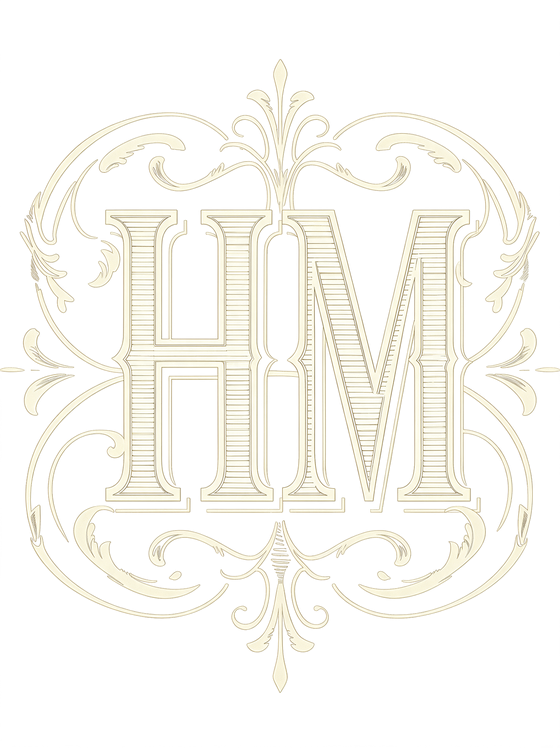
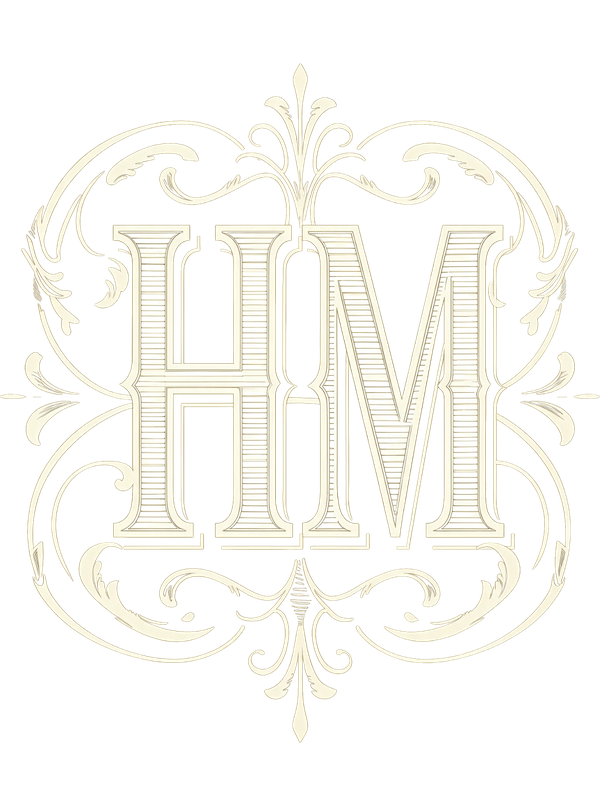
Fix monogram transparency, mobile card-deck jank, afterparty option, sun glow (#31)
* Update JA/MY hero intro copy and fix duplicated eternity motto

- Removed the eternity motto ("Two hearts, one eternity" / heroMotto) that
  had reappeared in the hero section during an earlier merge conflict
  resolution — it belongs only in the heart scene per prior direction
- Updated the Burmese heroMotto, announce, and announceBody text with the
  couple's new wording (announceBody now has two paragraphs via a line
  break)
- Updated the Japanese heroMotto, announce, and announceBody text with
  the couple's new wording

* Fix monogram transparency for good, smooth card-deck flick on mobile,
add afterparty "decide later", and replace flat sky with moving sun glow

- Replaced monogram.png with the couple's original high-resolution source
  (extracted from their upload), which has clean native alpha transparency.
  Resized it using a premultiplied-alpha-aware pipeline this time, avoiding
  the RGB corruption that caused the black box after a naive RGBA resize
- Fixed real mobile jank in the cards scene: a fast swipe triggered our own
  scrollTo({behavior:"smooth"}) snap-to-nearest-card while the browser's
  native momentum scroll was still animating, and the two fought each
  other. Now we wait for the scroll to actually settle (via the scrollend
  event, or a polling fallback) before applying the snap
- Added a "Decide later" option to the afterparty (2次会) question,
  matching the same option already on the station and guest-name steps
[…]

diff --git a/index.html b/index.html
@@ -197,7 +197,8 @@ body.locked{overflow:hidden;height:100vh}
 @media (min-width:768px){.sc-journey{height:460vh}}
 #jSky{position:absolute;inset:0;z-index:0;will-change:background}
 #jGlow{position:absolute;inset:0;z-index:1;pointer-events:none;opacity:0;will-change:opacity;
-  background:radial-gradient(ellipse 90% 48% at 22% 62%,rgba(255,214,142,.55),rgba(255,178,96,.18) 40%,transparent 72%)}
+  --gx:50%;--gy:18%;
+  background:radial-gradient(ellipse 70% 38% at var(--gx) var(--gy),rgba(255,238,196,.75),rgba(255,178,96,.22) 42%,transparent 72%)}
 .sc-journey .layer{top:-52%;height:152%;will-change:transform;z-index:2}
 .sc-journey .layer path{fill:var(--lc)}
 #jVenue{opacity:0;will-change:opacity}
@@ -838,7 +839,8 @@ textarea.rs-in{min-height:80px;resize:vertical;line-height:1.6;font-size:1.05rem
         <p class="rs-hint" style="margin-top:-1.3rem"><a class="ext-link" href="https://www.japanlivingguide.com/expatinfo/japaneseculture/wedding-etiquette/" target="_blank" rel="noopener" data-t="njLink">Learn more about Japanese wedding customs →</a></p>
         <div class="rs-chips" id="njChips" data-field="nijikai">
           <button class="rs-chip" type="button" data-v="yes" data-t="njYesL">Count me in!</button>
-          <button class="rs-chip" type="button" data-v="no" data-t="njNoL">Unable to join</button></div>
+          <button class="rs-chip" type="button" data-v="no" data-t="njNoL">Unable to join</button>
+          <button class="rs-chip" type="button" data-v="later" data-t="c_later">Decide later</button></div>
         <div class="rs-step-nav"><button class="rs-btn ghost" data-back data-t="back">Back</button>
           <button class="rs-btn" data-next data-t="next">Next</button></div></div>
       <div class="rs-step" data-s="msg">
@@ -1198,7 +1200,7 @@ function updateReview(){const box=document.getElementById("rsReview");if(!box)re
     const stChip=document.querySelector(`.rs-chips[data-field="station"] [data-v="${data.station}"]`);
     rows.push([tr("q_station"),(stChip&&stChip.textContent.trim())||data.station||"—"]);
     rows.push([tr("f_allergy"),data.allergy||"—"]);
-    rows.push([tr("q_nijikai"),data.nijikai==="yes"?tr("njYesL"):data.nijikai==="no"?tr("njNoL"):"—"]);}
+    rows.push([tr("q_nijikai"),data.nijikai==="yes"?tr("njYesL"):data.nijikai==="no"?tr("njNoL"):data.nijikai==="later"?tr("c_later"):"—"]);}
   if(data.message)rows.push([tr("f_msg"),data.message]);
   box.innerHTML=rows.map(r=>`<div class="rs-review"><b>${r[0]}</b><span>${String(r[1]).replace(/</g,"&lt;")}</span></div>`).join("");}
 function yesBurst(originEl){
@@ -1471,7 +1473,8 @@ addEventListener("resize",()=>{welH=welBig.offsetHeight;},{passive:true});
       if(css!==lastSky){jSky.style.background=css;lastSky=css;}
       const edgeFade=win(p,0,1,.05);
       jSky.style.opacity=edgeFade.toFixed(3);
-      jGlow.style.opacity=(Math.max(0,1-Math.abs(travel-.70)/.26)*.85*edgeFade).toFixed(3);
+      const glowBase=.55,glowPeak=Math.max(0,1-Math.abs(travel-.70)/.26)*.45;
+      jGlow.style.opacity=((glowBase+glowPeak)*edgeFade).toFixed(3);
       jLayers.forEach(L=>{L.el.style.transform=`translate3d(0,${p*L.depth*innerHeight*.62}px,0)`;
         const rv=LAYER_REVEAL[L.depth];
         const reveal=rv?clamp((travel-rv[0])/(rv[1]-rv[0]),0,1):1;
@@ -1488,6 +1491,8 @@ addEventListener("resize",()=>{welH=welBig.offsetHeight;},{passive:true});
       const rr=jRail.getBoundingClientRect(),pt=railPath.getPointAtLength(DLEN*travel);
       star.style.left=(pt.x/100*rr.width)+"px";star.style.top=(pt.y/1000*rr.height)+"px";
       star.style.opacity=(p>.15&&p<.90)?1:0;
+      star.style.zIndex=travel<.38?"10":"1";
+      jGlow.style.setProperty("--gx",pt.x+"%");jGlow.style.setProperty("--gy",(pt.y/10)+"%");
       star.style.transform=`translate(-50%,-50%) scale(${1+Math.sin(travel*Math.PI)*.5})`;
       for(const s of TRAIL){const on=s.t<=travel&&p>.14;
         if(on!==s.lit){s.lit=on;s.el.style.opacity=on?.85:0;}}
@@ -1685,13 +1690,21 @@ qzNext.onclick=()=>{qi++;if(qi<QZ.length)renderQ();
     if(e.pointerType!=="touch")return;
     tId=e.pointerId;tStartX=e.clientX;tStartY=e.clientY;tStartT=performance.now();
     tStartPos=progressOf(cardsScene)*(n-1);});
+  function settleThenSnap(target){
+    const done=()=>scrollTo({top:scrollYFor(target),behavior:"smooth"});
+    if("onscrollend" in window){addEventListener("scrollend",done,{once:true});return;}
+    let lastY=scrollY,stable=0;
+    (function wait(){
+      if(scrollY===lastY)stable++;else{stable=0;lastY=scrollY;}
+      if(stable>=4)return done();
+      requestAnimationFrame(wait);})();}
   cardsPin.addEventListener("pointerup",e=>{
     if(e.pointerType!=="touch"||e.pointerId!==tId)return;
     tId=null;
     const dx=e.clientX-tStartX,dy=e.clientY-tStartY,dt=performance.now()-tStartT;
     if(dt>650||Math.abs(dx)<44||Math.abs(dx)<Math.abs(dy)*1.4)return;
     const target=clamp(Math.round(tStartPos)+(dx<0?1:-1),0,n-1);
-    scrollTo({top:scrollYFor(target),behavior:"smooth"});});
+    settleThenSnap(target);});
 })();
 
 buildText();applyLang("en");
